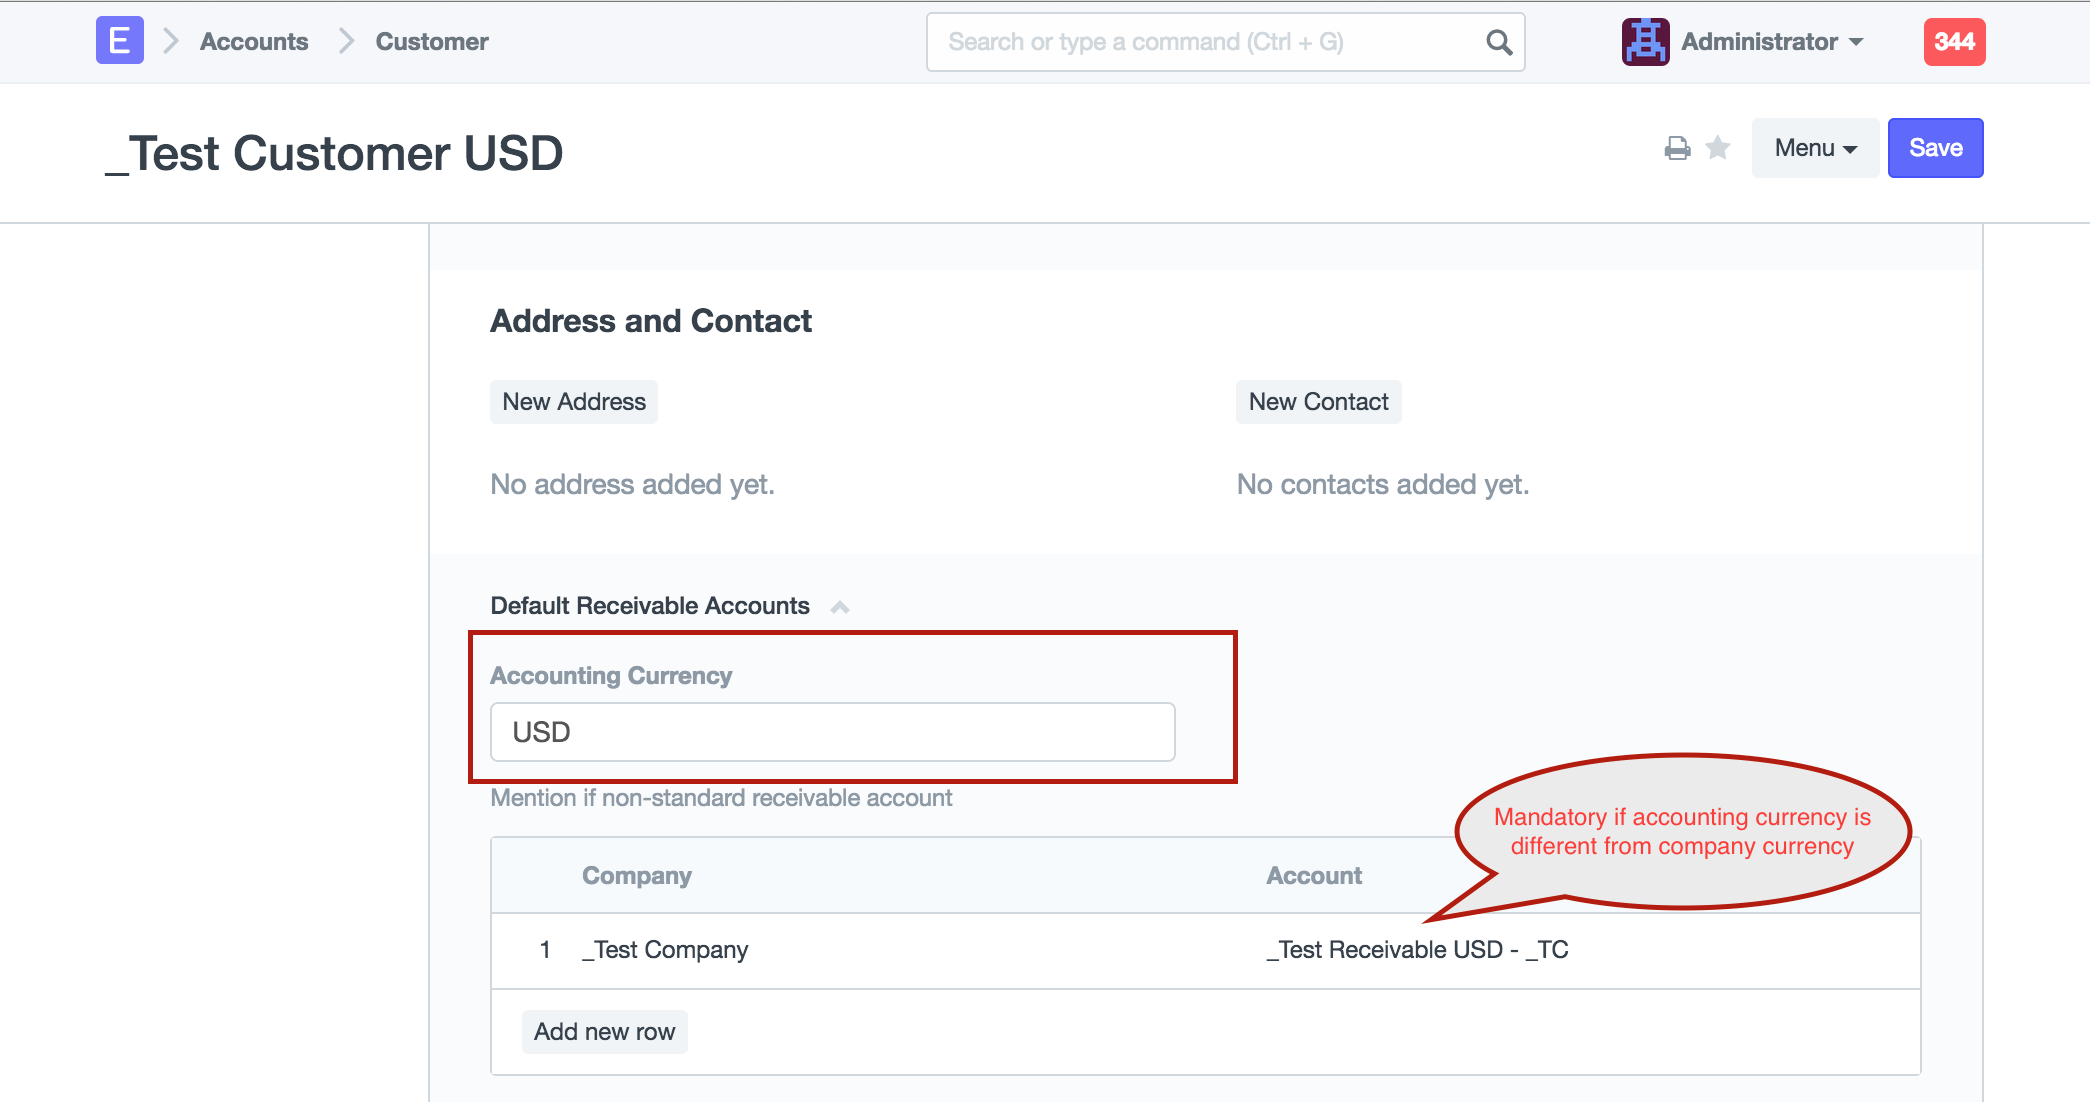
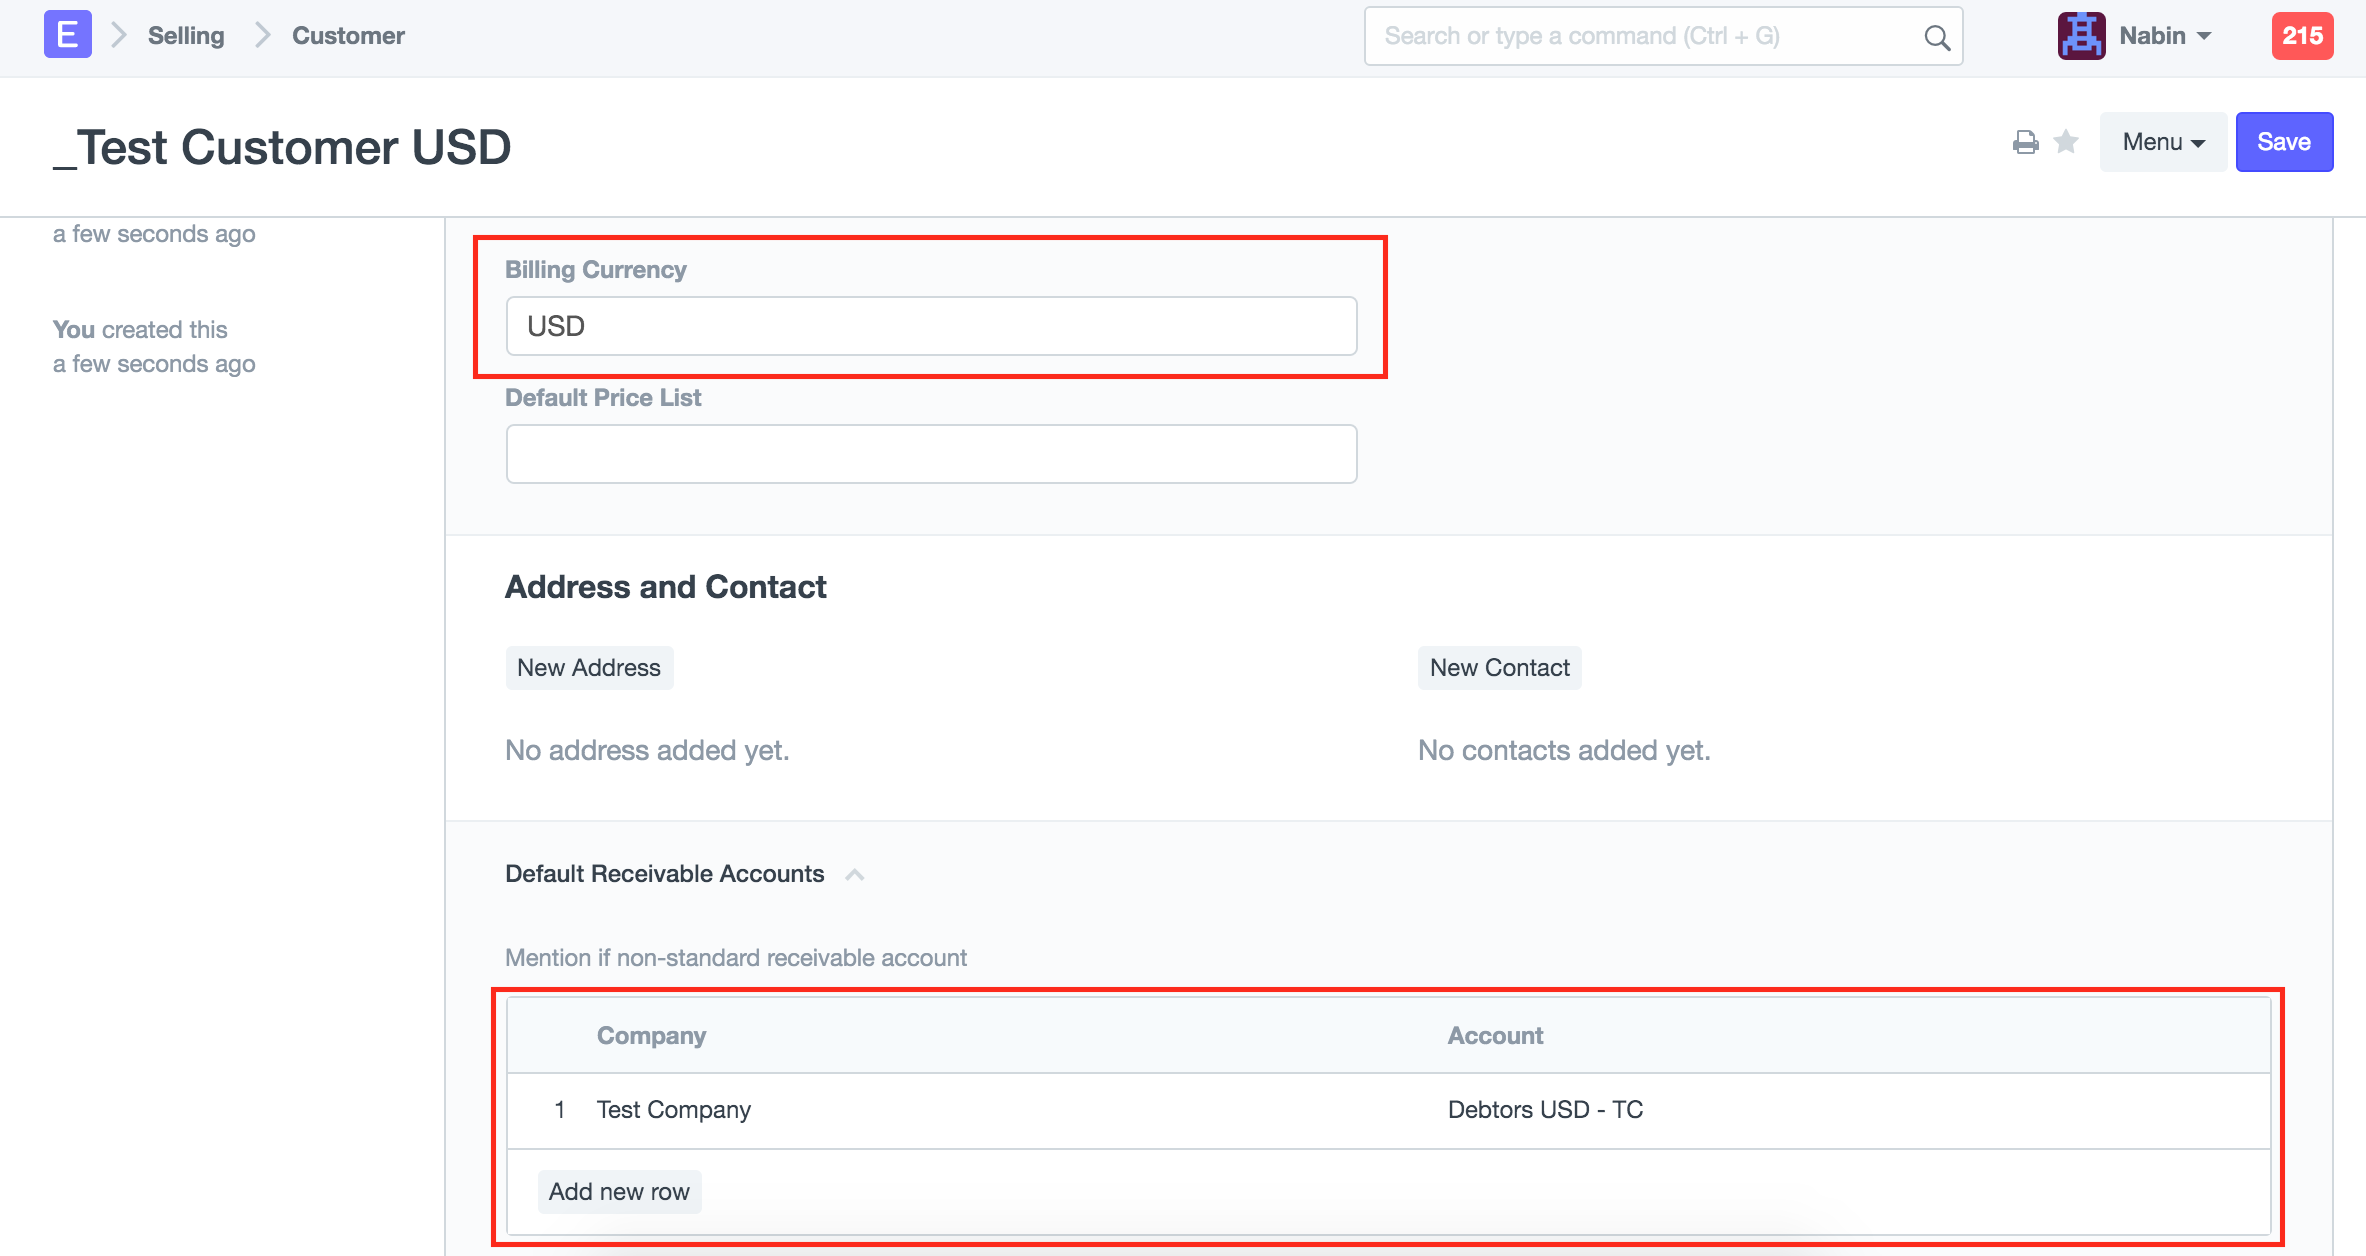
[fix] Updated multi currency docs

diff --git a/erpnext/docs/user/manual/en/accounts/multi-currency-accounting.md b/erpnext/docs/user/manual/en/accounts/multi-currency-accounting.md
@@ -10,14 +10,14 @@ You can also assign / modify the currency by opening specific Account record for
 
 <img class="screenshot" alt="Modify Account Currency"  	src="{{docs_base_url}}/assets/img/accounts/multi-currency/account.png">
 
-For Customer / Supplier (Party), you can also define it's accounting currency in the Party record. If the Party's accounting currency is different from Company Currency, you have to mention Default Receivable / Payable Account in that currency.
+For Customer / Supplier (Party), you can also define it's billing currency in the Party record. If the Party's accounting currency is different from Company Currency, you should mention Default Receivable / Payable Account in that currency.
 
 <img class="screenshot" alt="Customer Accounting Currency"  	src="{{docs_base_url}}/assets/img/accounts/multi-currency/customer.png">
 
 
-Once you defined Accounting Currency in Party / Account record, you are ready to make transactions against them. If Party's accounting currency is different from Company Currency, system will restrict to make transaction for that party with that currency only. If accounting currency is same as Company Currency, you can make transactions for that Party in any currency. But accounting entries (GL Entries) will always be in Party's Accounting Currency. In any case, currency of Receivable Account will always be same as accounting currency of the Party.
+Once you defined Currency in the Account and selected relevant accounts in the Party record , you are ready to make transactions against them. If Party account currency is different from Company Currency, system will restrict to make transaction for that party with that currency only. If account currency is same as Company Currency, you can make transactions for that Party in any currency. But accounting entries (GL Entries) will always be in Party Account Currency.
 
-You can change accounting currency in Party / Account record, until making any transactions against them. After making accounting entries, system will not allow to change the accounting currency for both Party / Account record.
+You can change accounting currency in Party / Account record, until making any transactions against them. After making accounting entries, system will not allow to change the currency for both Party / Account record.
 
 In case of multi-company setup, accounting currency of Party must be same for all the companies.
 
@@ -44,9 +44,7 @@ In Journal Entry, you can make transactions in different currencies. There is a 
 <img class="screenshot" alt="Journal Entry Exchange Rate"  	src="{{docs_base_url}}/assets/img/accounts/multi-currency/journal-entry-multi-currency.png">
 
  
-In Accounts table, on selection of foreign currency account, system will show Currency section and fetch Account Currency and Exchange Rate automatically. You can change / modify the Exchange Rate later manually.
-
-In a single Journal Entry, you can select accounts with only one alternate currency, apart from accounts in Company Currency. Debit / Credit amount should be entered in Account Currency, system will calculate and show the Debit / Credit amount in Company Currency automatically.
+In Accounts table, on selection of foreign currency account, system will show Currency section and fetch Account Currency and Exchange Rate automatically. You can change / modify the Exchange Rate later manually. Debit / Credit amount should be entered in Account Currency, system will calculate and show the Debit / Credit amount in Company Currency automatically.
 
 <img class="screenshot" alt="Journal Entry in multi currency"  	src="{{docs_base_url}}/assets/img/accounts/multi-currency/journal-entry-row.png">
 
@@ -63,7 +61,8 @@ Exchange Rate in the payment entry should always be same as invoice (60), even i
 Suppose, default currency of the company is INR. You have an Paypal account for which Currency is USD. You receive payments in the paypal account and lets say, paypal transfers amount once in a week to your other bank account which is managed in INR. 
 
 Paypal account gets debited on different date with different exchange rate, but on transfer date the exchange rate can be different. Hence, there is generally Exchange Loss / Gain on the transfer entry.
-In the bank transfer entry, system sets exchange rate based on the average incoming exchange rate Paypal account. You need to calculate and enter Exchange Loss / Gain based on the average exchange rate and the exchange rate on the transfer date.
+In the bank transfer entry, system sets exchange rate of the credit account (Paypal) based on the average incoming exchange rate. This is to maintain Paypal balance properly in company currency. In case you modify the average exchange rate, you need to adjust the exchange rate manually in the future entries, so that balance in account currency and company currency are in sync.
+Then you should calculate and enter Exchange Loss / Gain based on the Paypal exchange rate and the exchange rate on the transfer date.
 
 Lets say, Paypal account debited by following amounts over the week, which has not been transferred to your other bank account.
 
